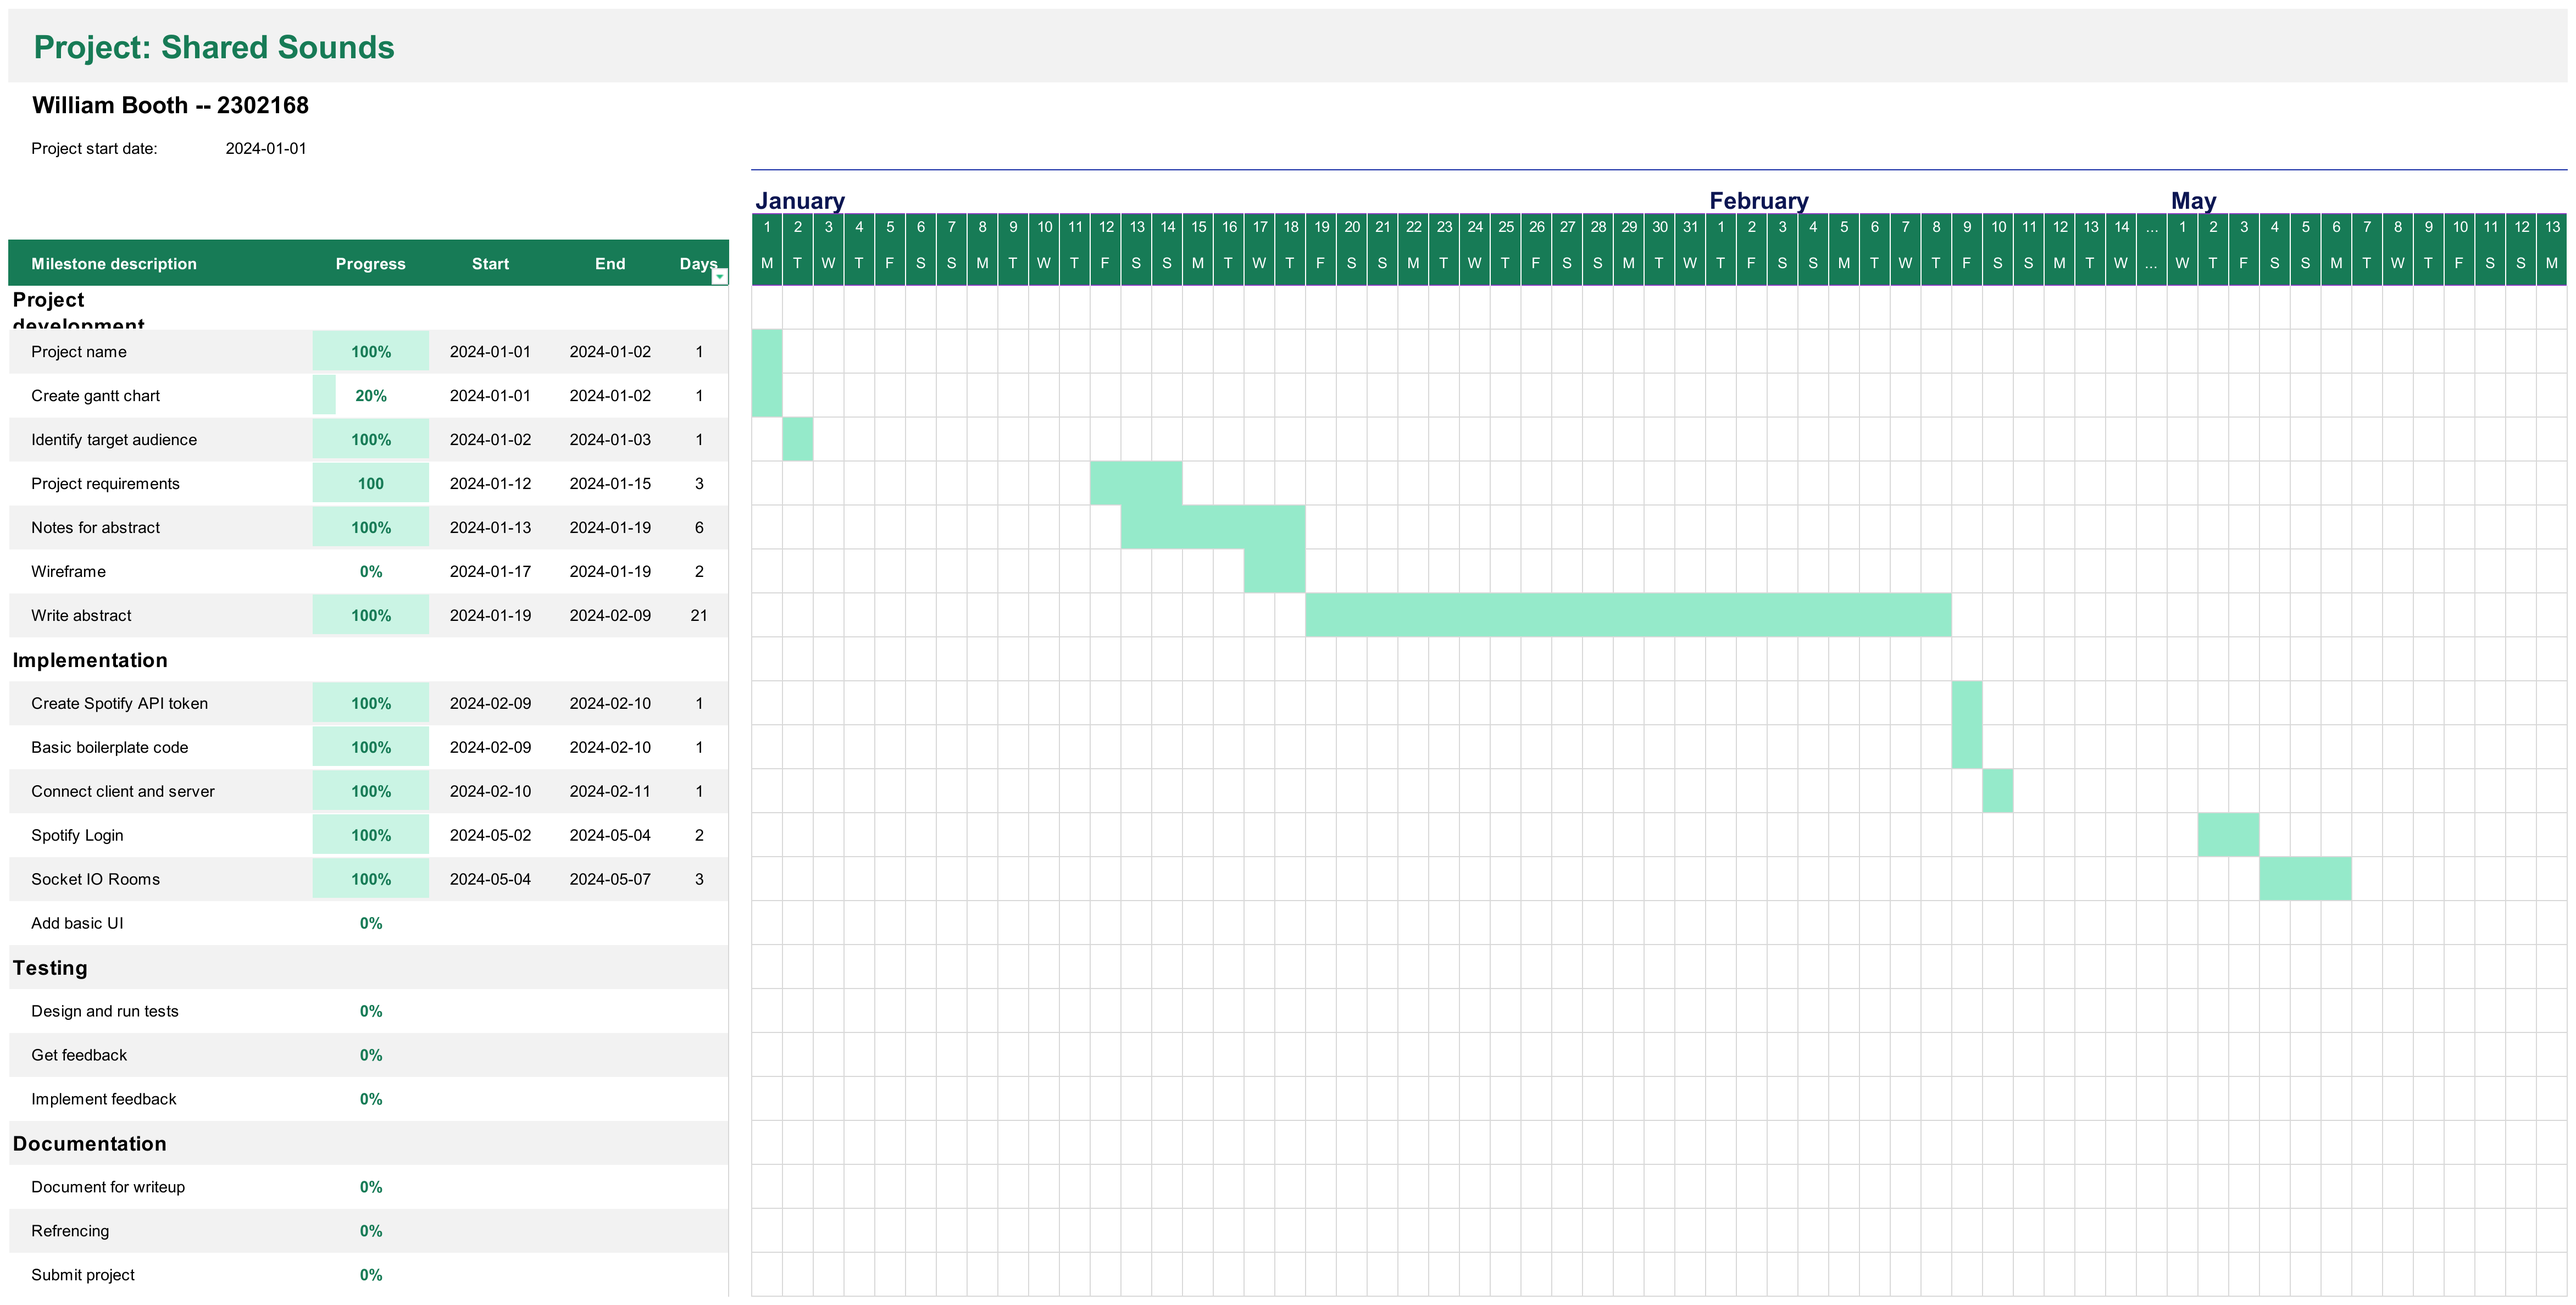
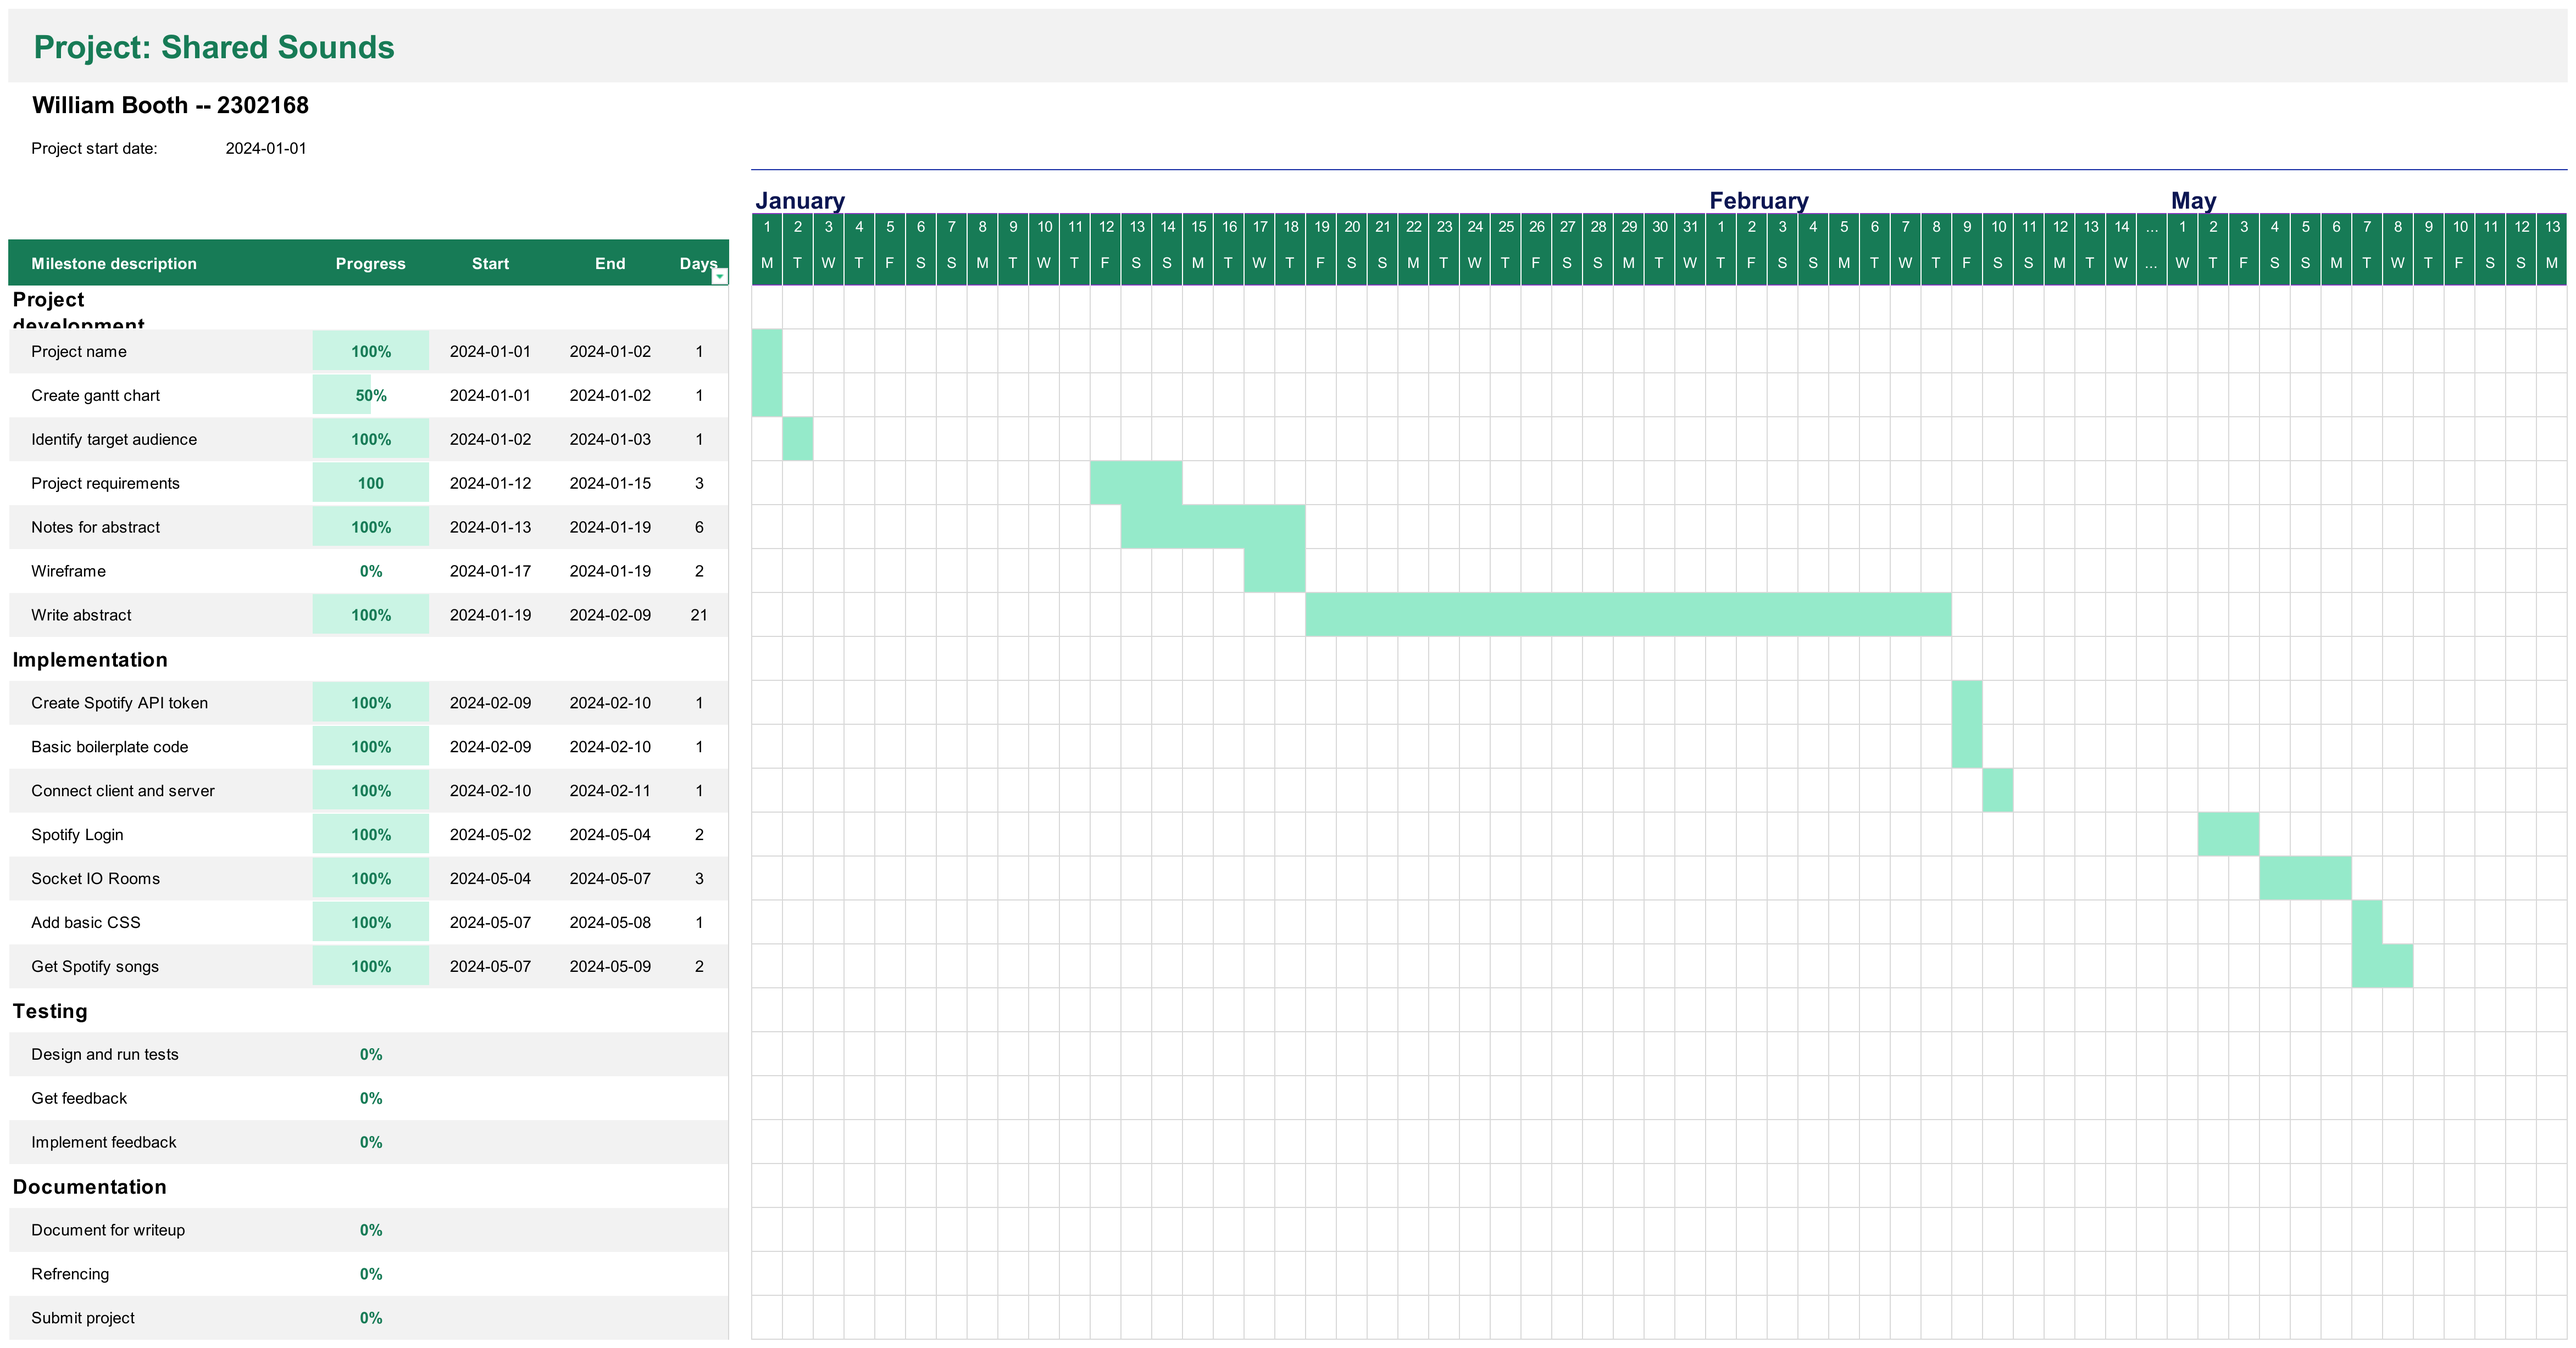
Get Spotify songs

diff --git a/public/script.js b/public/script.js
@@ -7,23 +7,46 @@ $("#login").click(() => {
 	window.open(redirectURL, "");
 });
 
-async function addUser(token) {
-	let name = await fetch("https://api.spotify.com/v1/me", {
+async function getUserID(token) {
+	let [userID, name] = await fetch("https://api.spotify.com/v1/me", {
 		method: "GET",
 		headers: {
 			"Authorization": `Bearer ${token}`
 		}
-	}).then((res) => res.json()).then((data) => data.display_name);
-	$("button").remove();
-	$("body").append(`${name}: ${token}`);
+	}).then((res) => res.json()).then((data) => [data.id, data.display_name]);
+
+	$(".login-notice").text(`Logged in as ${name}`);
+	
+	// replace login button with get song data button
+	$("#login").replaceWith(`<button id="getSongData">Get Song Data</button>`);
+	$("#getSongData").click(async () => {
+		let songs = await getSongs(token, `https://api.spotify.com/v1/me/tracks?limit=50`)
+		$("#getSongData").text("Get Song Data (Done)");
+		socket.emit("song data", [userID, songs]);
+	});
+}
+
+async function getSongs(token, url, songs = []) {
+	return await fetch(url, {
+		"method": "GET",
+		"headers": {
+			"Authorization": `Bearer ${token}`
+		}
+	}).then((res) => res.json()).then(async (data) => {
+		songs.push(...data.items.map((item) => item.track.id));
+		let percent = Math.round(songs.length / data.total * 100);
+		$("#getSongData").text(`Get Song Data (${percent}%)`);
+		if (data.next) await getSongs(token, data.next, songs);
+		return songs;
+	});
 }
 
 $("#createRoom").click(() => {
 	socket.emit("create").on("create res", (room) => {
-		$("body").append(`<div id="room-id">Created room ${room} (Click to copy)</div>`);
-		$("#room-id").click(() => {
+		$(".room-notice").html(`<div class="room-create-notice">Created room ${room} (Click to copy)</div>`);
+		$(".room-create-notice").click(() => {
 			navigator.clipboard.writeText(room);
-			$("#room-id").text(`Created room ${room} (Copied)`);
+			$(".room-create-notice").text(`Created room ${room} (Copied)`);
 		});
 	});
 });
@@ -31,16 +54,17 @@ $("#createRoom").click(() => {
 $("#joinRoom").click(() => {
 	let room = prompt("Enter room ID");
 
+	if (room == null) return;
 	if (!/^[a-z0-9]{8}$/.test(room)) {
 		alert("Invalid room ID");
 		return;
 	}
-	
+
 	socket.emit("join", room).on("join res", (res) => {
 		if (res == "success") {
-			$("body").text(`Joined room ${room}`);
+			$(".room-notice").text(`Joined room ${room}`);
 		} else {
-			$("body").text(`Failed to join room ${room}`);
+			$(".room-notice").text(`Failed to join room ${room}`);
 		}
 	});
 });
@@ -49,6 +73,6 @@ window.addEventListener("message", async (e) => {
 	let hash = JSON.parse(e.data);
 	if (hash.type == "access_token") {
 		let token = hash.access_token;
-		addUser(token);
+		getUserID(token);
 	}
 }, false);

diff --git a/public/index.html b/public/index.html
@@ -4,19 +4,19 @@
 		<title>Shared Sounds</title>
 		<meta charset="UTF-8">
 		<meta name="viewport" content="width=device-width, initial-scale=1">
+		<link href="https://fonts.googleapis.com/css2?family=Source+Sans+Pro&display=swap" rel="stylesheet">
 		<link href="style.css" rel="stylesheet">
 		<script src="https://code.jquery.com/jquery-3.7.1.js" integrity="sha256-eKhayi8LEQwp4NKxN+CfCh+3qOVUtJn3QNZ0TciWLP4=" crossorigin="anonymous"></script>
 		<script src="https://cdnjs.cloudflare.com/ajax/libs/socket.io/4.7.4/socket.io.js"></script>
 		<script src="script.js" defer></script>
 	</head>
 	<body>
-		<div class="header">
-
-		</div>
 		<div class="body">
 			<button id="login">Login</button>
 			<button id="createRoom" class="room-button">Create Room</button>
 			<button id="joinRoom" class="room-button">Join Room</button>
+			<div class="login-notice"></div>
+			<div class="room-notice"></div>
 		</div>
 	</body>
 </html>

diff --git a/app.js b/app.js
@@ -34,6 +34,12 @@ io.on("connection", (socket) => {
 			console.log(`Socket ${socket.id} failed to join room ${room}`);
 		}
 	});
+
+	socket.on("song data", (data) => {
+		socket.spotifyID = data[0];
+		socket.songData = data[1];
+		console.log(socket.spotifyID, socket.songData);
+	});
 });
 
 let port = process.argv[2] || 8080;

diff --git a/README.md b/README.md
@@ -16,6 +16,9 @@
   - [Socket.io Rooms](#socketio-rooms)
     - [Creating a Room](#creating-a-room)
     - [Joining a Room](#joining-a-room)
+  - [CSS](#css)
+    - [Nord Theme](#nord-theme)
+  - [Getting Spotify Data](#getting-spotify-data)
 - [References](#references)
 
 ## Gantt Chart
@@ -235,10 +238,10 @@ Client
 ```js
 $("#createRoom").click(() => {
   socket.emit("create").on("create res", (room) => {
-    $("body").append(`<div id="room-id">Created room ${room} (Click to copy)</div>`);
-    $("#room-id").click(() => {
+    $(".room-notice").html(`<div class="room-create-notice">Created room ${room} (Click to copy)</div>`);
+    $(".room-create-notice").click(() => {
       navigator.clipboard.writeText(room);
-      $("#room-id").text(`Created room ${room} (Copied)`);
+      $(".room-create-notice").text(`Created room ${room} (Copied)`);
     });
   });
 });
@@ -273,16 +276,17 @@ Client
 $("#joinRoom").click(() => {
   let room = prompt("Enter room ID");
 
+  if (room == null) return;
   if (!/^[a-z0-9]{8}$/.test(room)) {
     alert("Invalid room ID");
     return;
   }
-  
+
   socket.emit("join", room).on("join res", (res) => {
     if (res == "success") {
-      $("body").text(`Joined room ${room}`);
+      $(".room-notice").text(`Joined room ${room}`);
     } else {
-      $("body").text(`Failed to join room ${room}`);
+      $(".room-notice").text(`Failed to join room ${room}`);
     }
   });
 });
@@ -307,6 +311,101 @@ socket.on("join", (room) => {
 });
 ```
 
+### CSS
+
+```css
+:root {
+  --bg-primary: #2E3440;
+  --bg-secondary: #3B4252;
+  --text-primary: #ECEFF4;
+  --button-primary: #434C5E;
+  --button-secondary: #4C566A;
+}
+
+body {
+  background-color: var(--bg-primary);
+  color: var(--text-primary);
+  font-family: "Source Sans Pro", serif;
+}
+
+button {
+  background-color: var(--button-primary);
+  color: var(--text-primary);
+  border: none;
+  padding: 0.5rem 1rem;
+  cursor: pointer;
+}
+button:hover {
+  background-color: var(--button-secondary);
+}
+
+.room-create-notice {
+  cursor: pointer;
+}
+```
+
+For this website, I will be using the font Source Sans Pro. To use the font, I will add the following link to the head of the HTML file:
+
+```html
+<link href="https://fonts.googleapis.com/css2?family=Source+Sans+Pro&display=swap" rel="stylesheet">
+```
+
+#### Nord Theme
+
+The application will have two themes: light and dark. The light theme will be based on the Nord theme. The Nord theme is a color scheme that is used in many popular applications like Visual Studio Code, Vim, and Emacs (Nord, n.d.). It also has a GTK theme -- a cross-platform widget toolkit for creating graphical user interfaces (Lara, 2024).
+
+### Getting Spotify Data
+
+To get the user's music data, I will use the Spotify API. The API has an endpoint that will return the user's saved tracks. The endpoint is `https://api.spotify.com/v1/me/tracks` (Spotify, n.d.-c). This returns a list of up to 50 tracks that the user has saved. It is not possible to get more than 50 tracks at a time so the response is not too large. Because of this, the response includes a url with an offset to get the next 50 tracks.
+
+Client
+
+```js
+async function getUserID(token) {
+  let [userID, name] = await fetch("https://api.spotify.com/v1/me", {
+    method: "GET",
+    headers: {
+      "Authorization": `Bearer ${token}`
+    }
+  }).then((res) => res.json()).then((data) => [data.id, data.display_name]);
+
+  $(".login-notice").text(`Logged in as ${name}`);
+  
+  // replace login button with get song data button
+  $("#login").replaceWith(`<button id="getSongData">Get Song Data</button>`);
+  $("#getSongData").click(async () => {
+    let songs = await getSongs(token, `https://api.spotify.com/v1/me/tracks?limit=50`)
+    $("#getSongData").text("Get Song Data (Done)");
+    socket.emit("song data", [userID, songs]);
+  });
+}
+
+async function getSongs(token, url, songs = []) {
+  return await fetch(url, {
+    "method": "GET",
+    "headers": {
+      "Authorization": `Bearer ${token}`
+    }
+  }).then((res) => res.json()).then(async (data) => {
+    songs.push(...data.items.map((item) => item.track.id));
+    let percent = Math.round(songs.length / data.total * 100);
+    $("#getSongData").text(`Get Song Data (${percent}%)`);
+    if (data.next) await getSongs(token, data.next, songs);
+    return songs;
+  });
+}
+```
+
+Server
+
+```js
+socket.on("song data", (data) => {
+  socket.spotifyID = data[0];
+  socket.songData = data[1];
+  console.log(socket.spotifyID, socket.songData);
+});
+```
+
 ## References
 
 Competition and Markets Authority. (2023, November 29). _Music and streaming final report_. <https://assets.publishing.service.gov.uk/media/6384f43ee90e077898ccb48e/Music_and_streaming_final_report.pdf>
@@ -315,4 +414,10 @@ Spotify. (n.d.-a). _About Spotify_. <https://newsroom.spotify.com/company-info/>
 
 Spotify. (n.d.-b). _Quota modes_. <https://developer.spotify.com/documentation/web-api/concepts/quota-modes/>
 
+Spotify. (n.d.-c). _Get User's Saved Tracks_. <https://developer.spotify.com/documentation/web-api/reference/get-users-saved-tracks/>
+
 Vildal, P. (2021, April). _Shared Spotify_. GitHub. <https://github.com/paulvidal/shared-spotify/>
+
+Nord. (n.d.) _Nord Ports_. <https://www.nordtheme.com/ports>
+
+Lara, E. (2024, April 29). _Nordic_. <https://github.com/EliverLara/Nordic>
